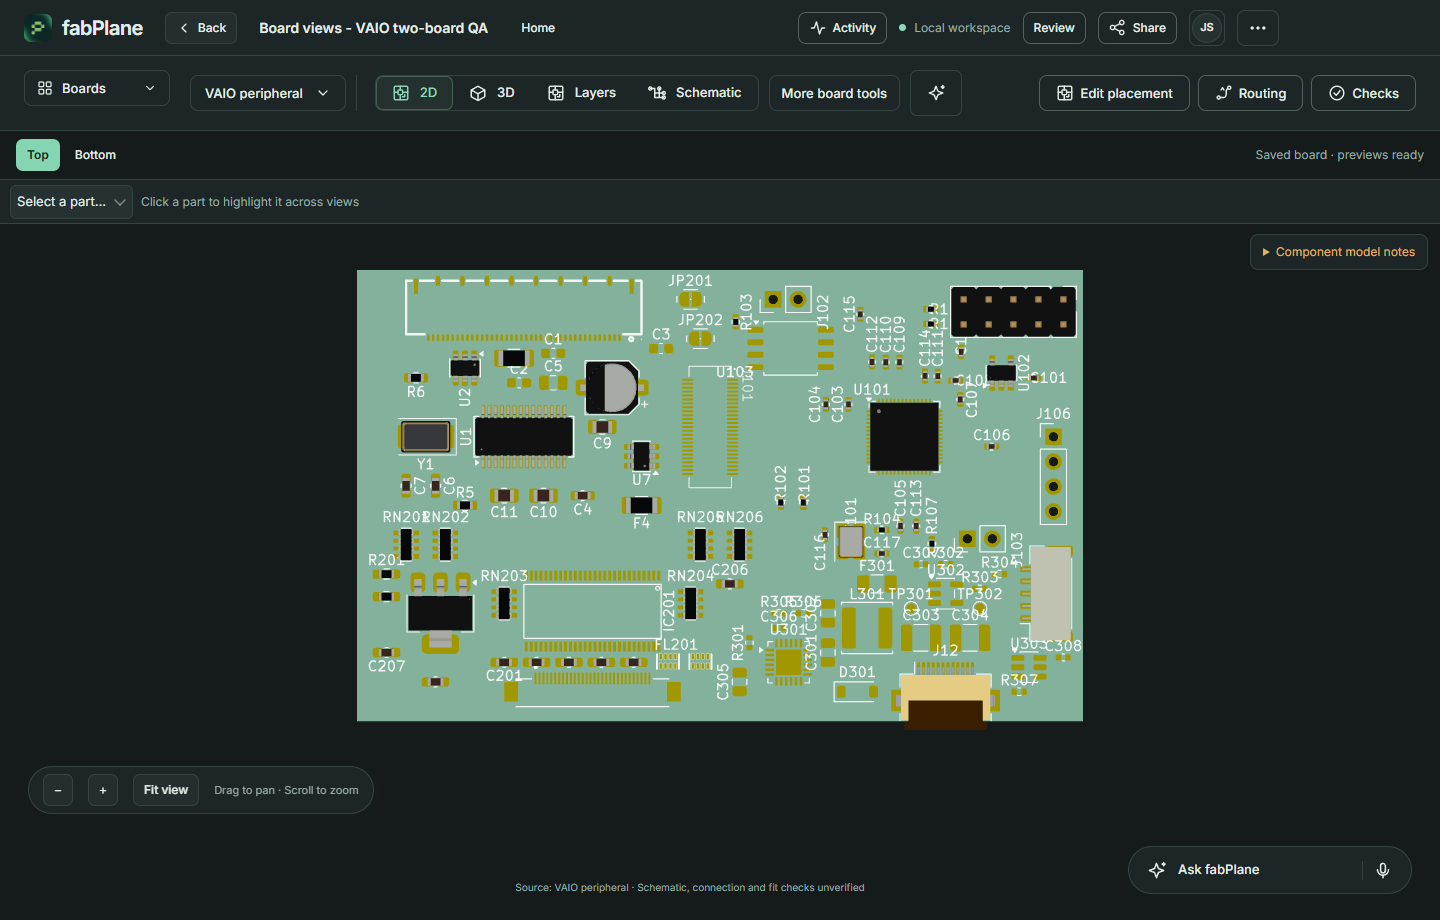
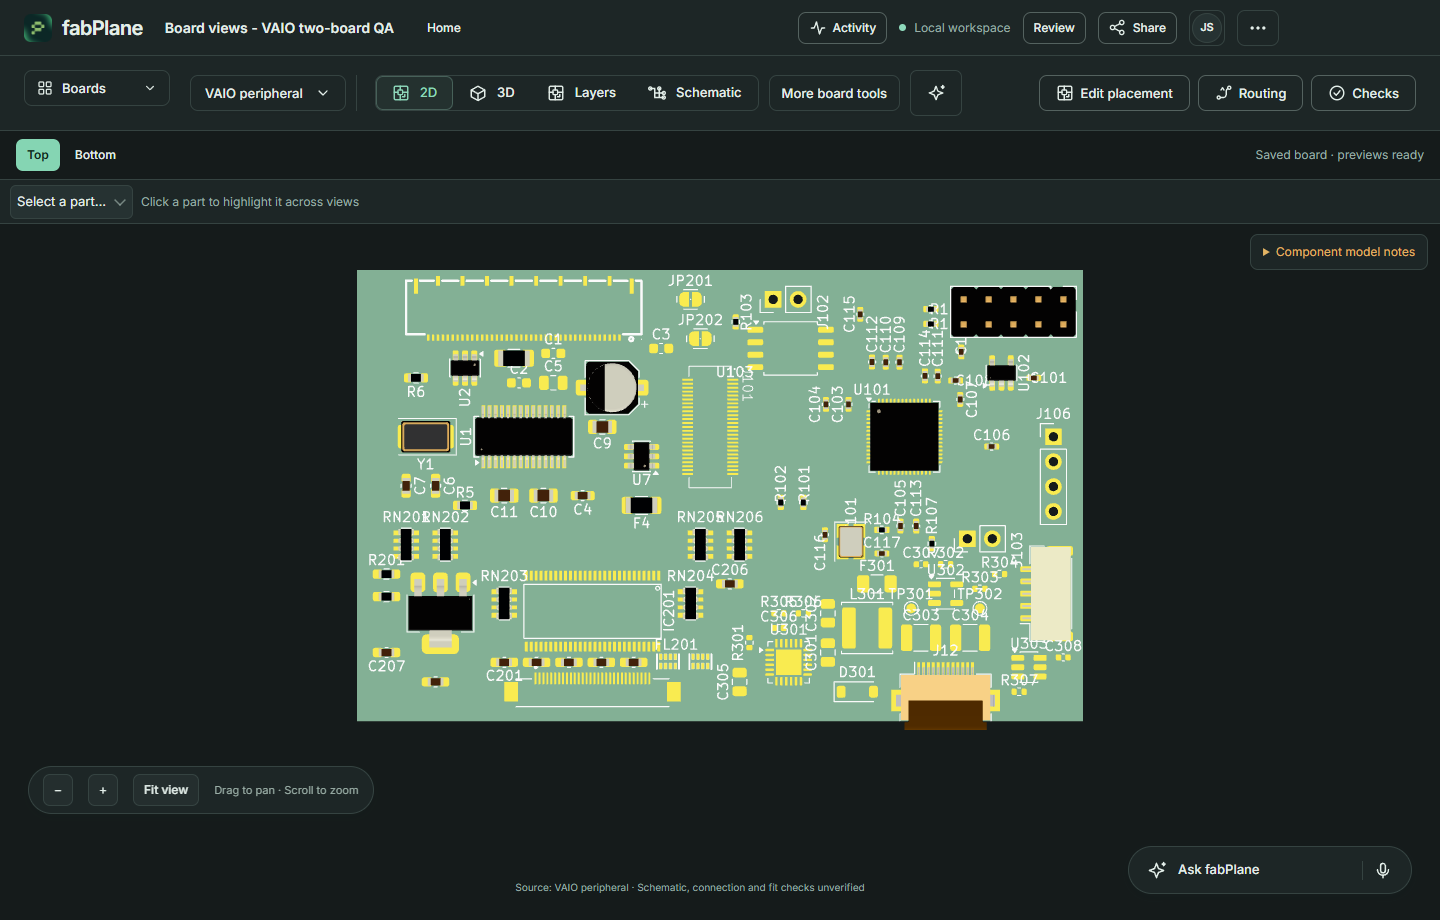
Improve board lighting and keep silkscreen visible while rotating

diff --git a/packages/ui/src/board/ModelCanvas.tsx b/packages/ui/src/board/ModelCanvas.tsx
@@ -1,5 +1,6 @@
 import { fitModelCamera } from "@fabdesk/client-core";
 import { alignBoardCamera, type BoardCameraMode } from "./board-camera-mode";
+import { boardPreviewMaterial } from "./board-preview-material";
 import { useBoardPartSelection, type PartSelectionSource } from "./usePartSelection";
 import { PartSelectionBar } from "./PartSelectionBar";
 import { nativeModelParts, modelPartReference, ModelPartTint } from "./model-part-selection";
@@ -9,6 +10,7 @@ import { OrbitControls } from "three/addons/controls/OrbitControls.js";
 import { GLTFLoader } from "three/addons/loaders/GLTFLoader.js";
 import { STLLoader } from "three/addons/loaders/STLLoader.js";
 import { OBJLoader } from "three/addons/loaders/OBJLoader.js";
+import { RoomEnvironment } from "three/addons/environments/RoomEnvironment.js";
 import { useProjectBlobUrl } from "../hooks/queries";
 import { Button, Spinner } from "../components/ui";
 
@@ -49,12 +51,28 @@ async function loadModel(bytes: ArrayBuffer, path: string): Promise<THREE.Object
     return url;
   });
   const model = await new GLTFLoader(manager).parseAsync(bytes, "");
+  const replaced = new Set<THREE.Material>();
+  const inkMaterials = new Map<THREE.Material, THREE.Material>();
   // GLTFLoader sanitizes Object3D.name (e.g. brackets). Retain exact native references.
   model.scene.traverse(object => {
     const node = model.parser.associations.get(object)?.nodes;
     const name = node === undefined ? undefined : model.parser.json.nodes?.[node]?.name;
     object.userData["nativeComponentName"] = typeof name === "string" ? name : null;
+    const meshIndex = model.parser.associations.get(object)?.meshes;
+    const meshName = meshIndex === undefined ? "" : model.parser.json.meshes?.[meshIndex]?.name;
+    if (object instanceof THREE.Mesh && meshName === "board_silkscreen") {
+      const prepare = (material: THREE.Material) => {
+        const ink = inkMaterials.get(material) ?? boardPreviewMaterial(material, meshName);
+        inkMaterials.set(material, ink);
+        if (ink !== material) replaced.add(material);
+        return ink;
+      };
+      object.material = Array.isArray(object.material) ? object.material.map(prepare) : prepare(object.material);
+    }
   });
+  // Only dispose replaced materials no longer referenced by another mesh.
+  model.scene.traverse(object => { if (object instanceof THREE.Mesh) for (const material of Array.isArray(object.material) ? object.material : [object.material]) replaced.delete(material); });
+  for (const material of replaced) material.dispose();
   return model.scene;
 }
 
@@ -99,6 +117,7 @@ export default function ModelCanvas({ projectId, path, blob, selectionSource, vi
     let cleanupContext: (() => void) | null = null;
     let stopMotion = () => {};
     let cleanupSelection: (() => void) | null = null;
+    let environment: THREE.WebGLRenderTarget | null = null;
     setError(null); setLoading(true);
     void (async () => {
       try {
@@ -114,9 +133,10 @@ export default function ModelCanvas({ projectId, path, blob, selectionSource, vi
         const center = bounds.getCenter(new THREE.Vector3());
         const root = new THREE.Group(); root.add(model); root.position.copy(center).multiplyScalar(-1);
         const scene = new THREE.Scene(); scene.add(root);
-        scene.add(new THREE.HemisphereLight(0xffffff, 0x77948a, 2.5));
-        const light = new THREE.DirectionalLight(0xffffff, 3); light.position.set(span, span * 2, span); scene.add(light);
-        const fill = new THREE.DirectionalLight(0xc2d6ff, 1.8); fill.position.set(-span, span, -span); scene.add(fill);
+        scene.add(new THREE.HemisphereLight(0xffffff, 0xffffff, .6));
+        const studio = new THREE.Group(); studio.scale.setScalar(span); scene.add(studio);
+        const light = new THREE.DirectionalLight(0xffffff, 2); light.position.set(-1, 1.5, 2); studio.add(light, light.target);
+        const fill = new THREE.DirectionalLight(0xffffff, .8); fill.position.set(1, -.5, 1); studio.add(fill, fill.target);
         camera = new THREE.PerspectiveCamera(38, 1, span / 1000, span * 1000);
         // OrbitControls captures the up axis at construction. Match the shared
         // board camera so top/bottom views can orbit immediately in 3D.
@@ -124,6 +144,10 @@ export default function ModelCanvas({ projectId, path, blob, selectionSource, vi
         renderer = new THREE.WebGLRenderer({ antialias: true, alpha: true });
         renderer.setPixelRatio(Math.min(devicePixelRatio, 2)); renderer.setClearColor(0x000000, 0);
         renderer.outputColorSpace = THREE.SRGBColorSpace;
+        renderer.toneMapping = THREE.NeutralToneMapping;
+        const room = new RoomEnvironment(), pmrem = new THREE.PMREMGenerator(renderer);
+        try { environment = pmrem.fromScene(room, .04); scene.environment = environment.texture; scene.environmentIntensity = .7; }
+        finally { room.dispose(); pmrem.dispose(); }
         renderer.domElement.tabIndex = 0;
         renderer.domElement.setAttribute("aria-label", "3D model. Drag to orbit, scroll to zoom, right-drag to pan. Use Fit view to reset.");
         target.append(renderer.domElement);
@@ -132,7 +156,11 @@ export default function ModelCanvas({ projectId, path, blob, selectionSource, vi
         controls.enableDamping = false; controls.minDistance = span * .08; controls.maxDistance = span * 60;
         let measureSelection = () => {};
         const selectionIsFramed = () => framedSelection.current !== null && framedSelection.current.scope === currentSelection.current.scope && framedSelection.current.ref === currentSelection.current.ref;
-        const render = () => { if (!disposed && renderer && camera) { renderer.render(scene, camera); measureSelection(); } };
+        const render = () => { if (!disposed && renderer && camera) {
+          // Soft light from the viewer's upper left, on both sides of the board.
+          studio.position.copy(controls?.target ?? root.position); studio.quaternion.copy(camera.quaternion);
+          renderer.render(scene, camera); measureSelection();
+        } };
         let motionFrame = 0;
         stopMotion = () => { cancelAnimationFrame(motionFrame); motionFrame = 0; if (renderer) renderer.domElement.dataset["focusMotion"] = "idle"; };
         const reset = () => {
@@ -306,6 +334,7 @@ export default function ModelCanvas({ projectId, path, blob, selectionSource, vi
       if (camera && controls) savedCamera.current = { position: camera.position.clone(), target: controls.target.clone(), up: camera.up.clone(), minDistance: controls.minDistance };
       observer?.disconnect(); cleanupContext?.(); controls?.dispose();
       if (model) disposeModel(model);
+      environment?.dispose();
       renderer?.dispose(); renderer?.domElement.remove();
     };
   }, [data, path, retry]);

diff --git a/packages/ui/src/board/board-preview-material.test.ts b/packages/ui/src/board/board-preview-material.test.ts
@@ -1,0 +1,22 @@
+import { expect, test } from "bun:test";
+import { MeshStandardMaterial, Texture } from "three";
+import { boardPreviewMaterial } from "./board-preview-material";
+
+test("native ink occludes the soldermask without changing a shared source material", () => {
+  const original = new MeshStandardMaterial({ color: 0xffffff, opacity: .9, transparent: true });
+  const ink = boardPreviewMaterial(original, "board_silkscreen");
+  expect(ink).not.toBe(original);
+  expect(ink.transparent).toBe(false);
+  expect(ink.opacity).toBe(1);
+  expect(ink.depthTest).toBe(true);
+  expect(ink.depthWrite).toBe(true);
+  expect(original.transparent).toBe(true);
+  expect(original.opacity).toBe(.9);
+});
+
+test("soldermask, imported glass, and alpha-textured artwork keep their transparency", () => {
+  const material = new MeshStandardMaterial({ opacity: .5, transparent: true });
+  for (const name of ["board_soldermask", "glass", "component"]) expect(boardPreviewMaterial(material, name)).toBe(material);
+  material.alphaMap = new Texture();
+  expect(boardPreviewMaterial(material, "board_silkscreen")).toBe(material);
+});

diff --git a/packages/ui/src/board/board-preview-material.ts b/packages/ui/src/board/board-preview-material.ts
@@ -1,0 +1,13 @@
+import { Material, MeshStandardMaterial } from "three";
+
+/** KiCad ink is a surface, not glass. Opaque depth-tested ink avoids the
+ * translucent soldermask being sorted over individual letters at oblique angles.
+ * Clone only this known native surface; component/enclosure transparency stays intact. */
+export function boardPreviewMaterial(material: Material, meshName: string): Material {
+  if (meshName !== "board_silkscreen" || !(material instanceof MeshStandardMaterial) || material.map || material.alphaMap) return material;
+  const ink = material.clone();
+  ink.transparent = false;
+  ink.opacity = 1;
+  ink.depthWrite = true;
+  return ink;
+}

diff --git a/docs/automatic-board-views.md b/docs/automatic-board-views.md
@@ -9,12 +9,13 @@ The existing schematic, routing, placement and checks remain available. The sour
 ## Validation
 
 - Root typecheck and desktop production build passed.
-- UI: 399 tests passed. Client core: 616 tests passed.
+- UI: 401 tests passed. Client core: 616 tests passed.
 - Focused registry/preview tests: 77 passed. GLB integrity and preview publication tests: 14 passed.
 - New tests cover actual layer enumeration, immutable source export, preservation of previous output after an edit, revision matching, failed queued jobs and layer visibility.
 - Live desktop: a real four-layer VAIO peripheral board and two-layer microSD board, both as separate assembly sources with no pre-existing previews. Automatic preparation produced 11 and 9 layer images respectively; both bundles matched their source SHA-256 and models were independently saved (6.9 MB and 1.2 MB).
 - Six successive view switches retained the same WebGL canvas. Two-frame observations took 7–31 ms on the tested machine, after initial preparation. Top/Bottom and layer toggles passed. This is an interaction smoke check, not a cross-device performance guarantee.
 - Camera correction: pixel comparisons of the rendered board viewport matched exactly between 2D and 3D for both top and bottom, including pan/zoom (excluding the interaction-hint text). Native mouse-drag rotation and keyboard orbit were verified in 3D. Four regression tests cover camera preservation and returning from an orbit to 2D.
+- Lighting: neutral tone mapping, a locally generated studio reflection map, and camera-relative key/fill lights reveal metallic contacts on both sides without adding a continuous render loop. Known native KiCad silkscreen uses opaque depth-tested ink so transparent soldermask cannot fade individual letters when rotating. Component/enclosure glass and textured alpha artwork remain unchanged. Two material regression tests and live top/bottom/oblique checks passed; 2D/3D matching was rechecked. Overlapping source artwork and unavailable component models are not repaired by lighting.
 - Broader Windows tools/KiCad suites are not fully green. Their existing failures were reproduced in a separate checkout of `main` (`b7bc58cb`), including symlink privileges, shell-based CLI fixtures, stencil and other platform-sensitive checks. The two changed inventory assertions (tab/tool additions) were updated and passed on rerun.
 
 Screenshots in `screenshots/automatic-board-views/` show the actual app using the VAIO peripheral source, not mockups.
